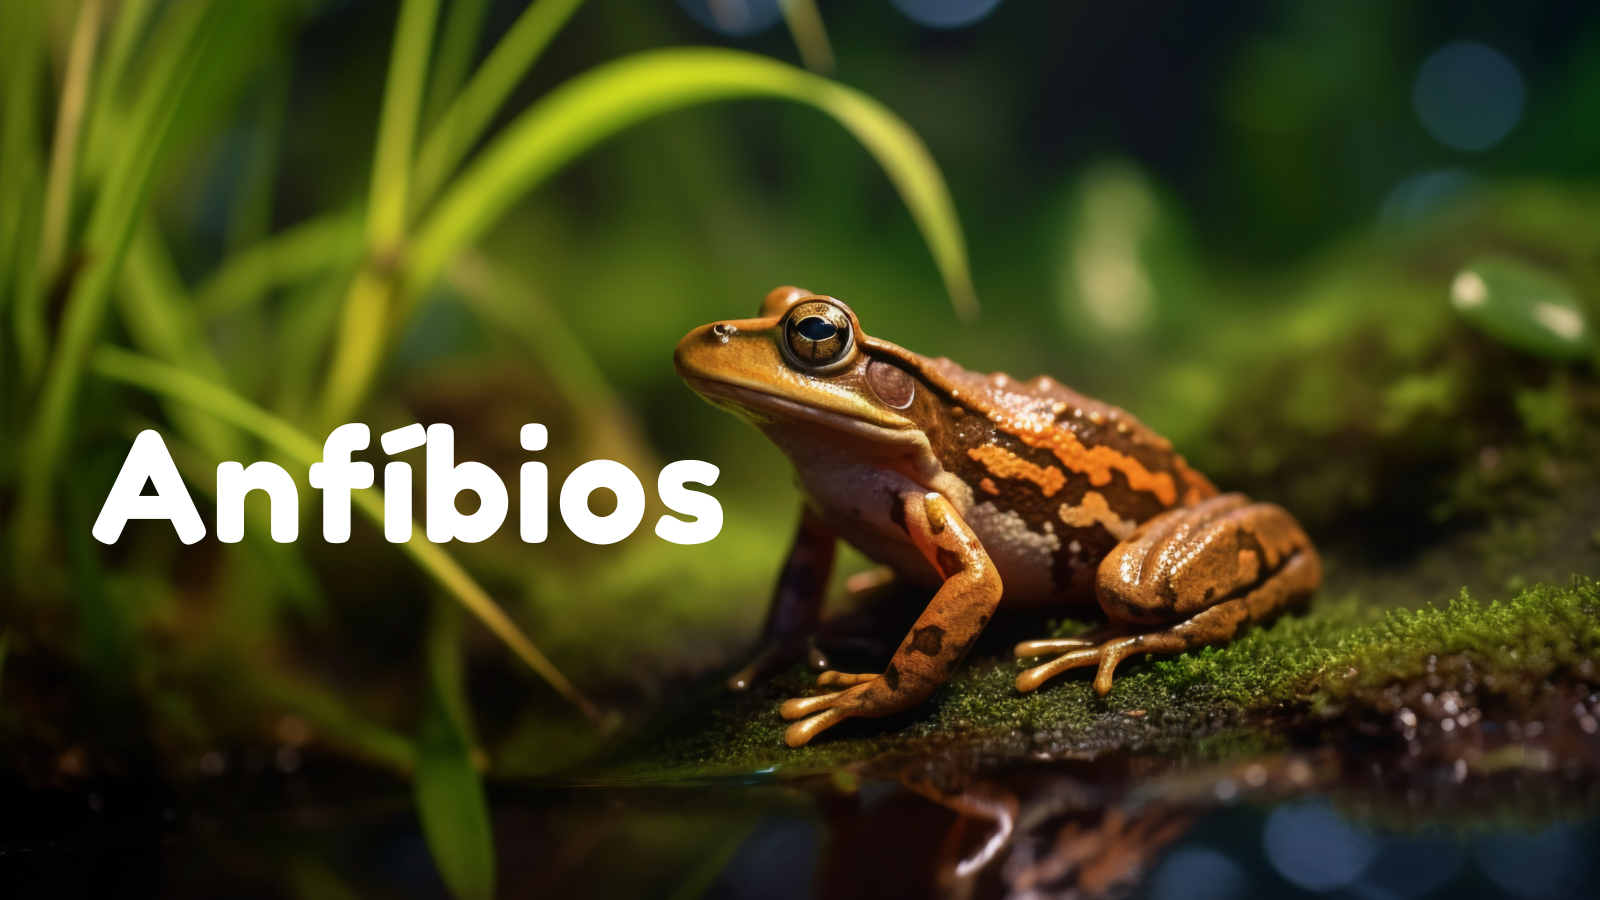
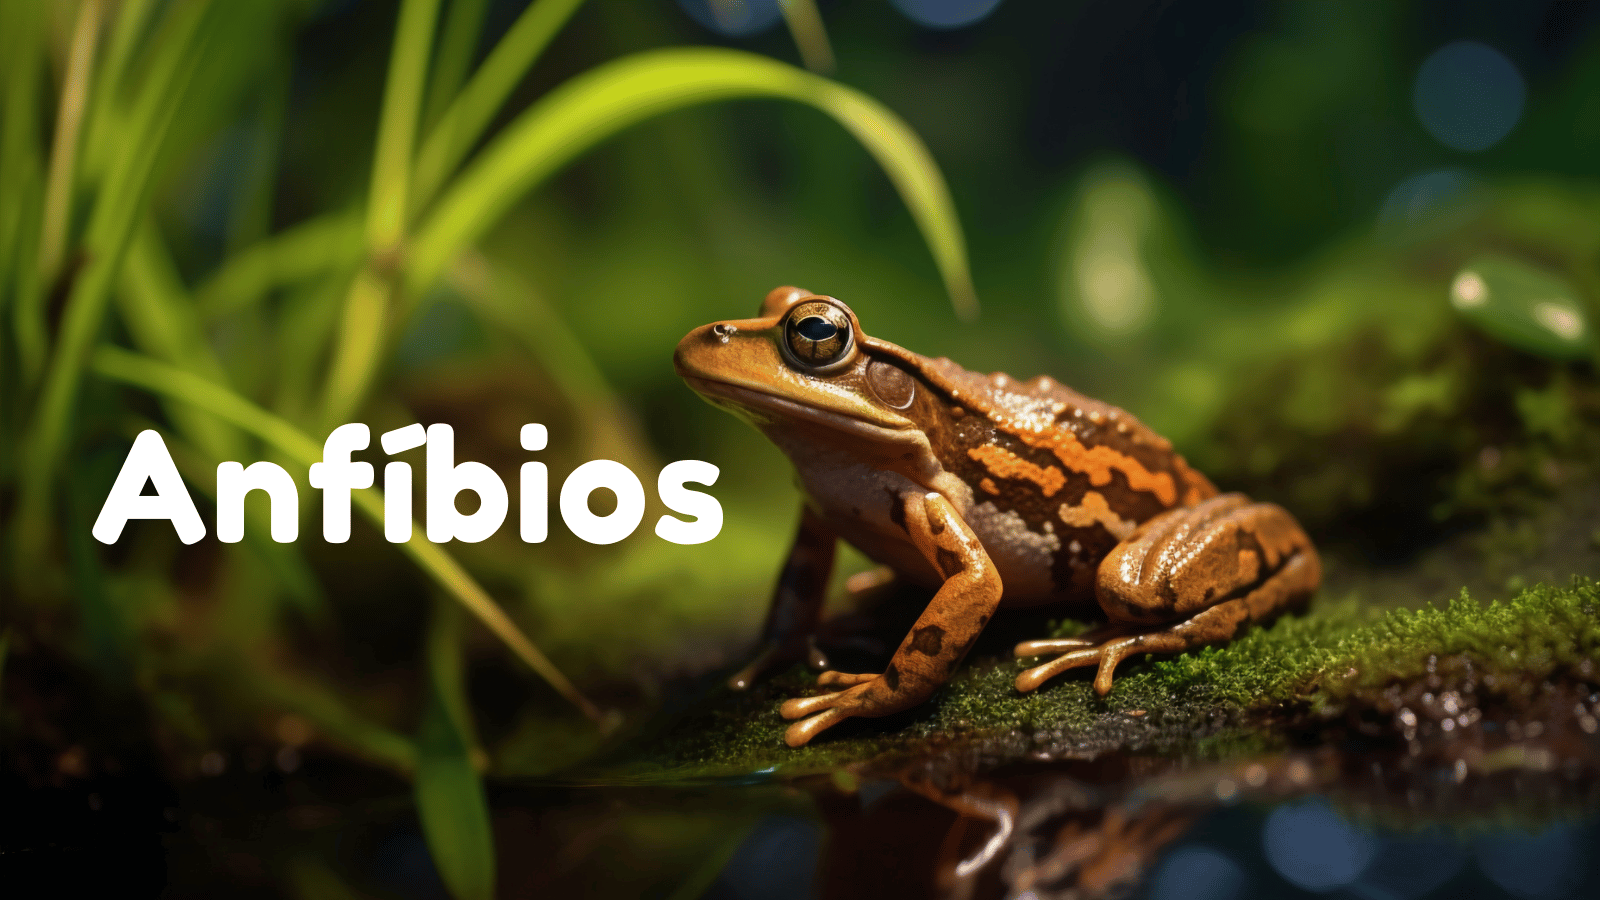
finished 31/08

diff --git a/index.html b/index.html
@@ -6,8 +6,7 @@
     <meta name="viewport" content="width=device-width, initial-scale=1.0">
     <title>Encanto Animal</title>
     <link rel="stylesheet" href="styles/style.css">
-    <link rel="stylesheet" href="https://fonts.googleapis.com/css2?family=Material+Symbols+Outlined:opsz,wght,FILL,GRAD@24,400,0,0" />
-    <link rel="stylesheet" href="https://unpkg.com/leaflet/dist/leaflet.css" />
+    <link rel="stylesheet" href="https://fonts.googleapis.com/css2?family=Material+Symbols+Outlined:opsz,wght,FILL,GRAD@20..48,100..700,0..1,-50..200" />
     <link rel="shortcut icon" href="img/icon.png" type="image/x-icon">
 
 </head>
@@ -40,26 +39,34 @@
             <article class="box-container">
 
                 <div class="content">
+
                     <h2 class="deco-title">Sobre nós</h2>
+
                     <h3 class="title"> História do Encanto Animal</h3>
 
-                        <p>O <strong>Encanto Animal</strong> foi fundado por<a href="https://github.com/emillymoitinho" target="_blank"> Emilly </a>, uma apaixonada por animais, que transformou sua visão em realidade ao criar um espaço de preservação e educação ambiental. Após estudar biologia e viajar pelo mundo em busca de conhecimento sobre a vida selvagem, Emilly voltou com a missão de fundar um zoológico que unisse conservação e conscientização sobre a importância dos animais no nosso planeta.</p> <br>
+                    <p>Fundado por Emilly, o Zoológico Encanto Animal começou como um projeto de resgate de animais em risco e cresceu para se tornar um centro de conservação renomado. Localizado na Avenida dos Sonhos Dourados, na Vila Encantada, em São Paulo, o zoológico oferece habitats naturais e programas educativos para promover a preservação e o respeito pela vida selvagem. </p>
 
-                        <p>A história do Encanto Animal começou de forma modesta, resgatando animais em situação de risco, e rapidamente cresceu para abrigar espécies ameaçadas e resgatadas. Sob a liderança de Emilly, o Encanto Animal se tornou um centro de conservação renomado, com habitats que reproduzem o ambiente natural dos animais e programas educativos que inspiram os visitantes a protegerem a natureza.</p> <br>
+                    <br>
+                        
+                    <p>O Encanto Animal abriga uma diversidade de criaturas, desde leões e elefantes até répteis e aves exóticas, e é conhecido por seu compromisso com o bem-estar animal e a educação ambiental. Convidamos você a explorar nosso zoológico e se conectar com a natureza de maneira divertida e educativa.</p>
 
-                        <p>Localizado na <strong>Avenida dos Sonhos Dourados, na Vila Encantada, em São Paulo</strong>, o Encanto Animal é o destino perfeito para quem deseja explorar a diversidade do reino animal em um ambiente que combina diversão, aprendizado e respeito pela vida selvagem.</p> <br>
+                    <p>O Zoológico Encanto Animal é um centro de conservação da biodiversidade comprometido com ações fundamentais em quatro pilares:</p>
+
+                    <ul>
+                        <li>Resgate e Reabilitação</li>
+                        
+                        <li>Habitat Natural</li>
+                        
+                        <li>Educação Ambiental Interativa</li>
+                        
+                        <li>Engajamento Comunitário</li>
+                    </ul>
                     
-                        <p>No Encanto Animal, temos uma vasta gama de criaturas incríveis, desde majestosos mamíferos como leões, elefantes e girafas, até intrigantes répteis, anfíbios e aves exóticas. Cada canto do nosso zoológico oferece uma nova descoberta, um novo animal para conhecer e uma nova história para contar.</p> <br>
 
-                        <p>Além de proporcionar um lar seguro e amoroso para os animais, o Encanto Animal é também um lugar de aprendizado contínuo. Nossa equipe de cuidadores e biólogos, sob a liderança de Emilly, está sempre pronta para compartilhar curiosidades e informações sobre a vida selvagem e a importância da conservação ambiental.</p> <br>
-
-                        <p>Hoje, o Encanto Animal é conhecido por seu compromisso com o bem-estar animal e a preservação da biodiversidade, refletindo a paixão de Emilly por cuidar e proteger a vida selvagem. Convidamos você a nos visitar e experimentar a magia de estar em meio à natureza, aprendendo e se divertindo ao lado de criaturas fascinantes.</p><br>
-
-                    <p class="destaque">Endereço: Avenida dos Sonhos Dourados - Vila Encantada <br> São Paulo, Brasil</p>
-
-                    <p class="destaque2">Esperamos por você! 😊</p>
-                       
                 </div>
+                     
+                    <img src="img/img_about.png" alt="">
+                
 
             </article>
 
@@ -74,7 +81,7 @@
                 <div class="box">
                     
                     <a href="animais/aves.html" target="_blank">
-                        <img src="img/aves.jpg" alt="">
+                        <img src="img/aves.png" alt="">
                         <div class="content">
                         <h3>Aves</h3>
                         <a href="animais/aves.html" class="btn" target="_blanck">Mais detalhes</a>
@@ -83,7 +90,7 @@
                 </div>
     
                 <div class="box">
-                    <img src="img/repteis.jpg" alt="">
+                    <img src="img/repteis.png" alt="">
                     <a href="animais/repteis.html" target="_blank">
                         <div class="content">
                             <h3>Répteis</h3>
@@ -93,7 +100,7 @@
                 </div>
     
                 <div class="box">
-                    <img src="img/mamiferos.jpg" alt="">
+                    <img src="img/mamiferos.png" alt="">
                     <a href="animais/mamiferos.html" target="_blank">
                         <div class="content">
                             <h3>Mamíferos</h3>
@@ -103,7 +110,7 @@
                 </div>
     
                 <div class="box">
-                    <img src="img/peixe.jpg" alt="">
+                    <img src="img/peixe.png" alt="">
                     <a href="animais/aquario.html" target="_blank">
                         <div class="content">
                             <h3>Aquário</h3>

diff --git a/styles/style.css b/styles/style.css
@@ -1,5 +1,13 @@
 @charset "UTF-8";
+
+/* Roboto */
 @import url('https://fonts.googleapis.com/css2?family=Roboto:ital,wght@0,100;0,300;0,400;0,500;0,700;0,900;1,100;1,300;1,400;1,500;1,700;1,900&display=swap');
+
+/* Quicksand */
+@import url('https://fonts.googleapis.com/css2?family=Quicksand:wght@300..700&display=swap');
+
+/* Coming Soon */
+@import url('https://fonts.googleapis.com/css2?family=Coming+Soon&family=Quicksand:wght@300..700&display=swap');
 
 * {
     margin: 0;
@@ -65,6 +73,7 @@ html::-webkit-scrollbar-thumb {
     color: var(--preto);
     margin: 0 1rem;
     cursor: pointer;
+    font-family: "Quicksand", sans-serif;
 }
 
 .header .navbar a:hover {
@@ -81,6 +90,7 @@ html::-webkit-scrollbar-thumb {
     background: url(../img/capa.png) no-repeat;
     background-size: cover;
     
+    
 }
 
 .home .wave{
@@ -96,27 +106,53 @@ html::-webkit-scrollbar-thumb {
 
 .about {
   display: flex;
-  justify-content: center; /* Centraliza horizontalmente */
-  align-items: center; /* Centraliza verticalmente */
-  min-height: 100vh;
+  justify-content: center; 
+  align-items: center; 
+  min-height: 85vh;
+  margin-bottom: 100px;
 }
 
 .about .box-container{
   text-align: center;
-  width: 100%; /* Faz com que o container ocupe 100% da largura disponível */
   display: flex;
-  flex-direction: column; /* Alinha o conteúdo verticalmente */
-  justify-content: center; /* Centraliza verticalmente o conteúdo */
-  align-items: center; /* Centraliza horizontalmente o conteúdo */
+  /* justify-content: center; 
+  align-items: center;  */
 }
 
 .about .content {
-  max-width: 80%; /* Controla a largura máxima do conteúdo */
+  max-width: 40%; /* Controla a largura máxima do conteúdo */
   margin: 0 auto; /* Centraliza o conteúdo horizontalmente */
 }
 
+
 .about .content p {
+  font-size: 1.5rem;
+  color: #444;
+  line-height: 2;
+  text-indent: 10px;
   text-align: justify; /* Justifica o texto */
+  margin-left: 50px;
+  margin-right: 80px;
+}
+
+
+.about img {
+  margin-top: 30px;
+  margin-right: 208px;
+}
+
+.about ul {
+  margin-top: 20px;
+}
+
+.about ul li {
+  text-align: left;
+  margin-top: 20px;
+  margin-left: 10rem;
+  font-size: 1.5rem;
+  line-height: 2rem;
+  font-family: "Roboto", sans-serif;
+  
 }
 
 .about .deco-title{
@@ -159,14 +195,8 @@ html::-webkit-scrollbar-thumb {
     color: var(--verde);
     margin-top: 250px;
     margin-bottom: 50px;
-}
-
-.about .content p{
-    font-size: 1.5rem;
-    color: #444;
-    line-height: 2;
-    text-indent: 10px;
-
+    font-family: "Coming Soon", cursive;
+    
 }
 
 .about .content a {
@@ -179,12 +209,20 @@ html::-webkit-scrollbar-thumb {
 }
 
 
+
 /* ANIMAIS */
+
+ .animais {
+  background: url(/img/fundo_animais.png);
+  height: 100rem;
+}
+
 .animais .box-container{
     display: grid;
     grid-template-columns: repeat(auto-fit, minmax(25rem,1fr));
     gap: 2rem;
     padding: 50px 50px 150px 50px;
+    
   }
   
   .animais .box-container .box{
@@ -199,6 +237,7 @@ html::-webkit-scrollbar-thumb {
     font-size: 5rem;
     text-align: center;
     margin-bottom: 40px;
+    font-family: "Coming Soon", cursive;
   }
   
   .animais .box-container .box img{

diff --git a/animais/styles/animais.css b/animais/styles/animais.css
@@ -1,5 +1,13 @@
 @charset "UTF-8";
+
+/* Roboto */
 @import url('https://fonts.googleapis.com/css2?family=Roboto:ital,wght@0,100;0,300;0,400;0,500;0,700;0,900;1,100;1,300;1,400;1,500;1,700;1,900&display=swap');
+
+/* Quicksand */
+@import url('https://fonts.googleapis.com/css2?family=Quicksand:wght@300..700&display=swap');
+
+/* Coming Soon */
+@import url('https://fonts.googleapis.com/css2?family=Coming+Soon&family=Quicksand:wght@300..700&display=swap');
 
 * {
     margin: 0;
@@ -63,6 +71,7 @@ html::-webkit-scrollbar-thumb {
     color: var(--preto);
     margin: 0 1rem;
     cursor: pointer;
+    font-family: "Quicksand", sans-serif;
 }
 
 .header .navbar a:hover {

diff --git a/animais/repteis.html b/animais/repteis.html
@@ -65,7 +65,7 @@
                 </div>
 
                 <div class="box">
-                    <img src="/img/Gecko-leopardo.png" alt="Gecko Leopardo" width="200px">
+                    <img src="/img/gecko-leopardo.png" alt="Gecko Leopardo" width="200px">
                     <h3 class="title_animal">Gecko-leopardo<br>(Eublepharis macularius)</h3>
                     <ul>
                         <li><strong>Descrição:</strong> Lagarto pequeno com padrão de manchas que lembra um leopardo. Possui pele robusta e escamosa, variando em cores do amarelo ao marrom com manchas pretas e laranjas. Tem olhos grandes e redondos, sem pálpebras móveis.</li> <br>
